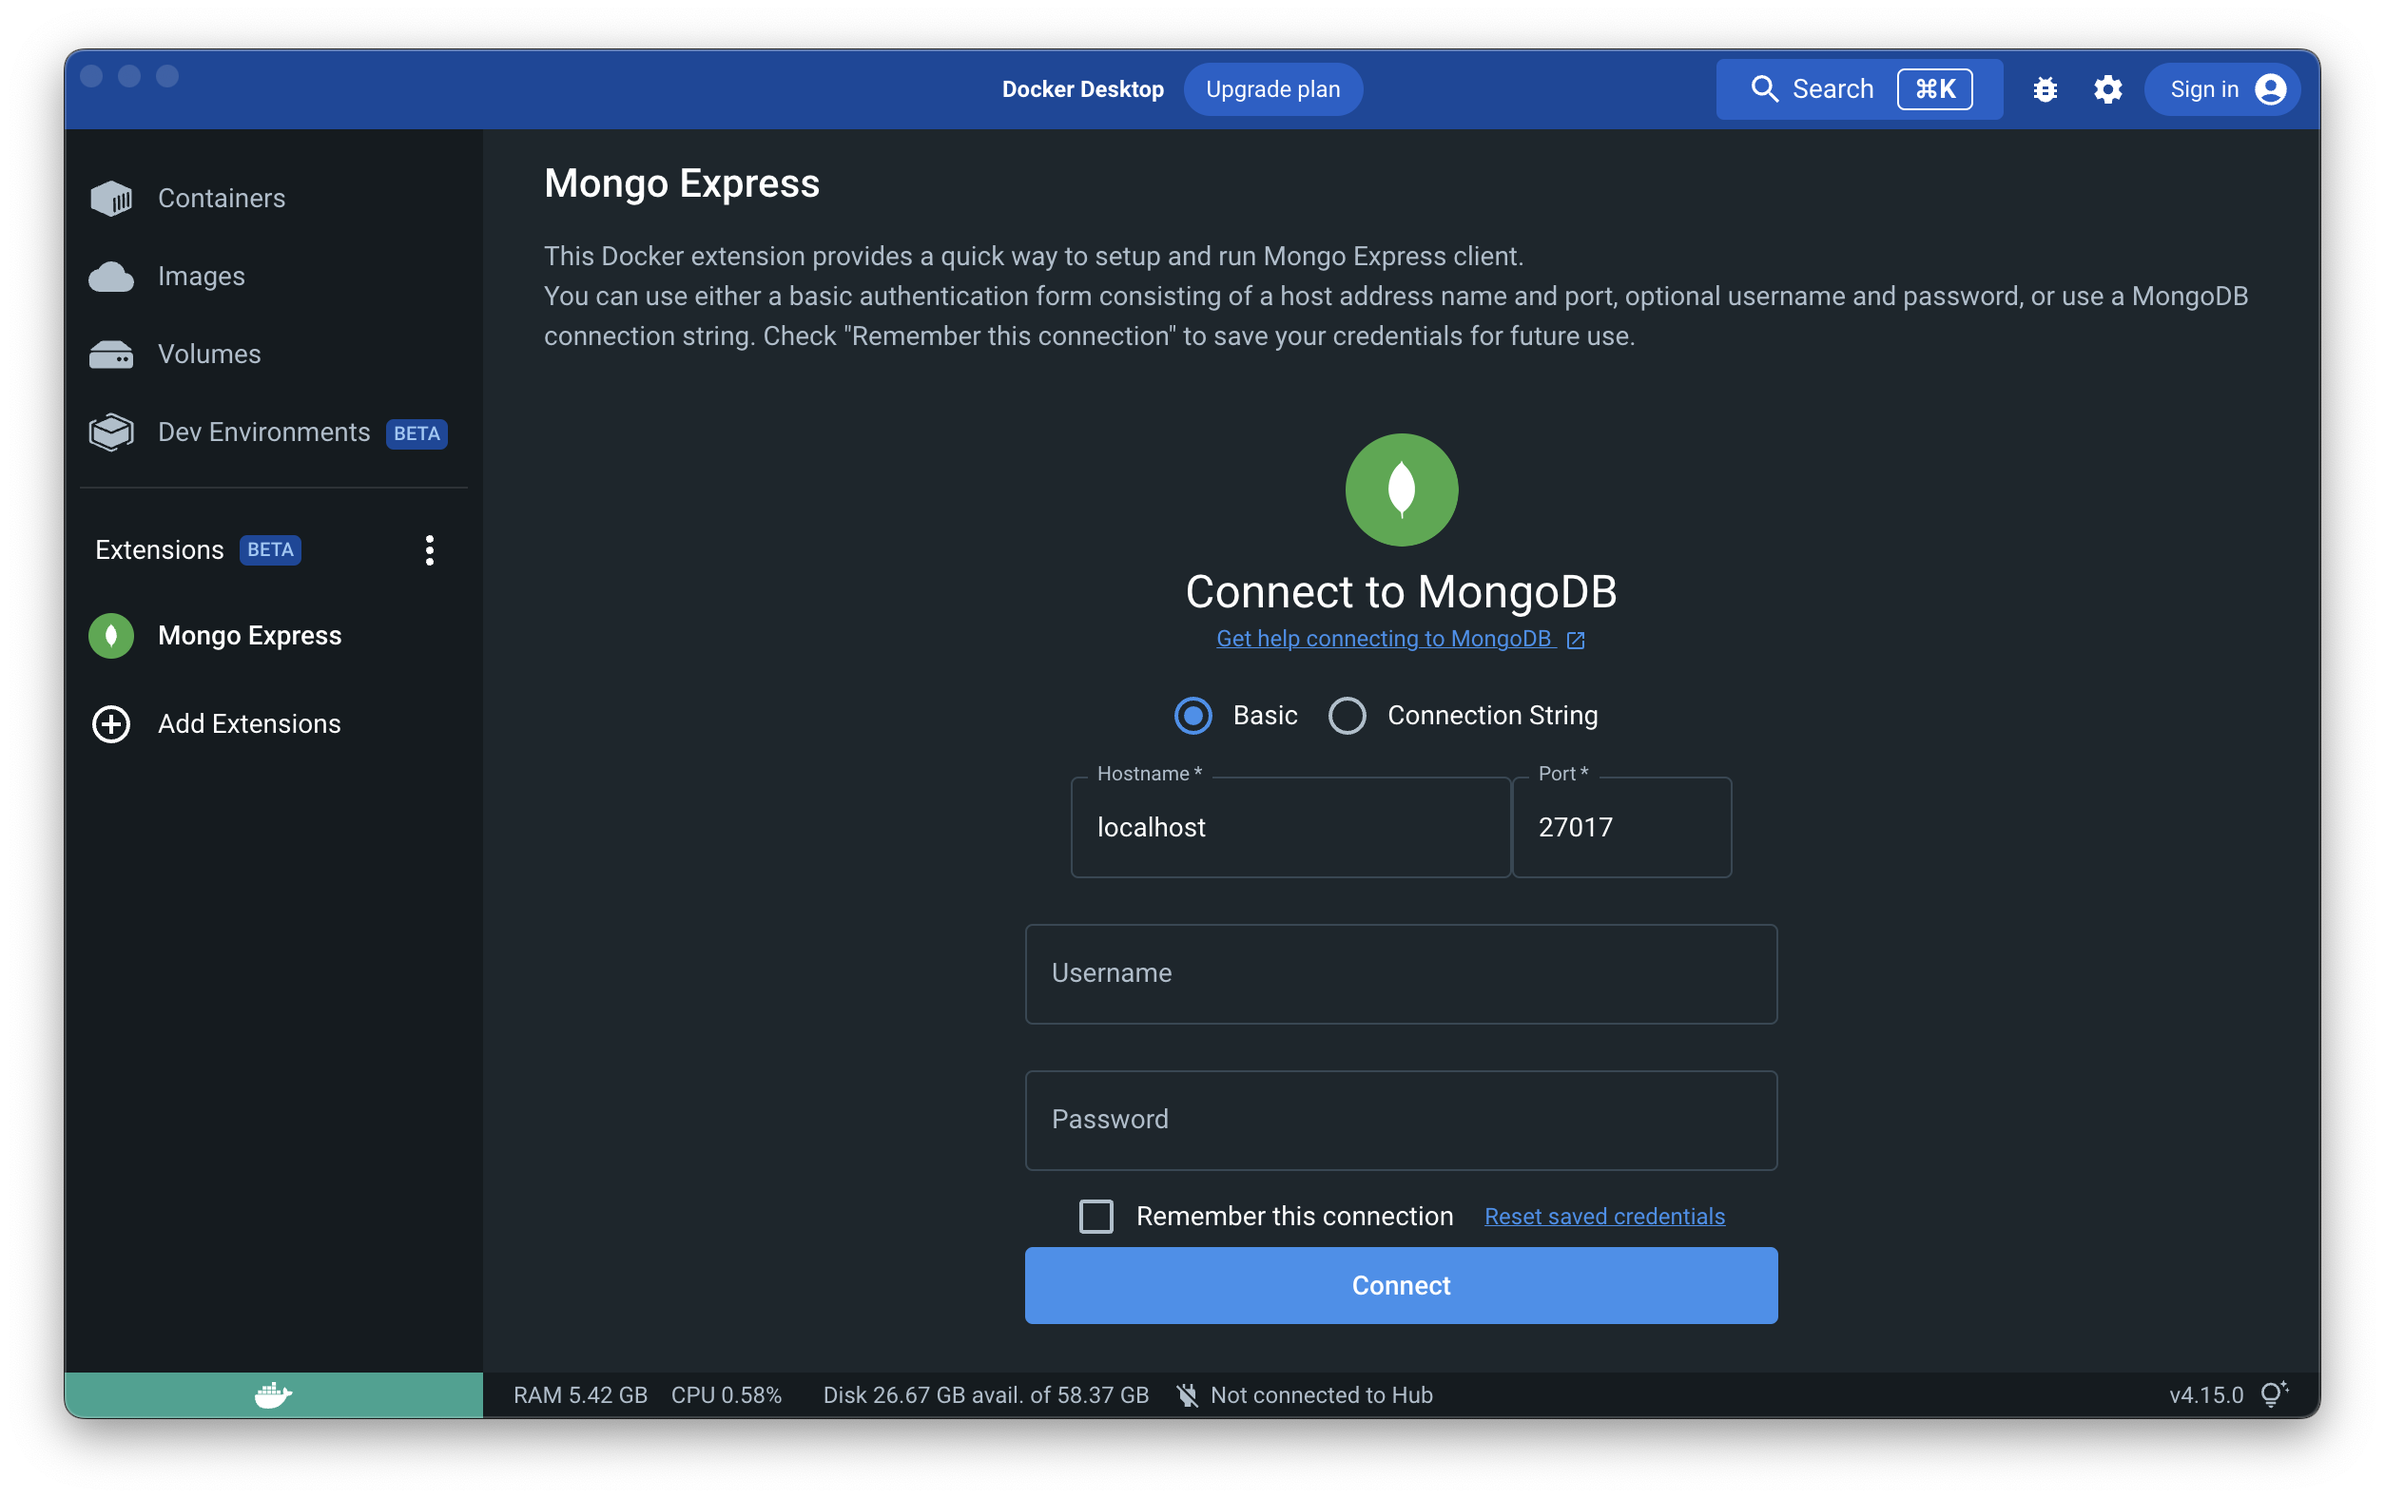
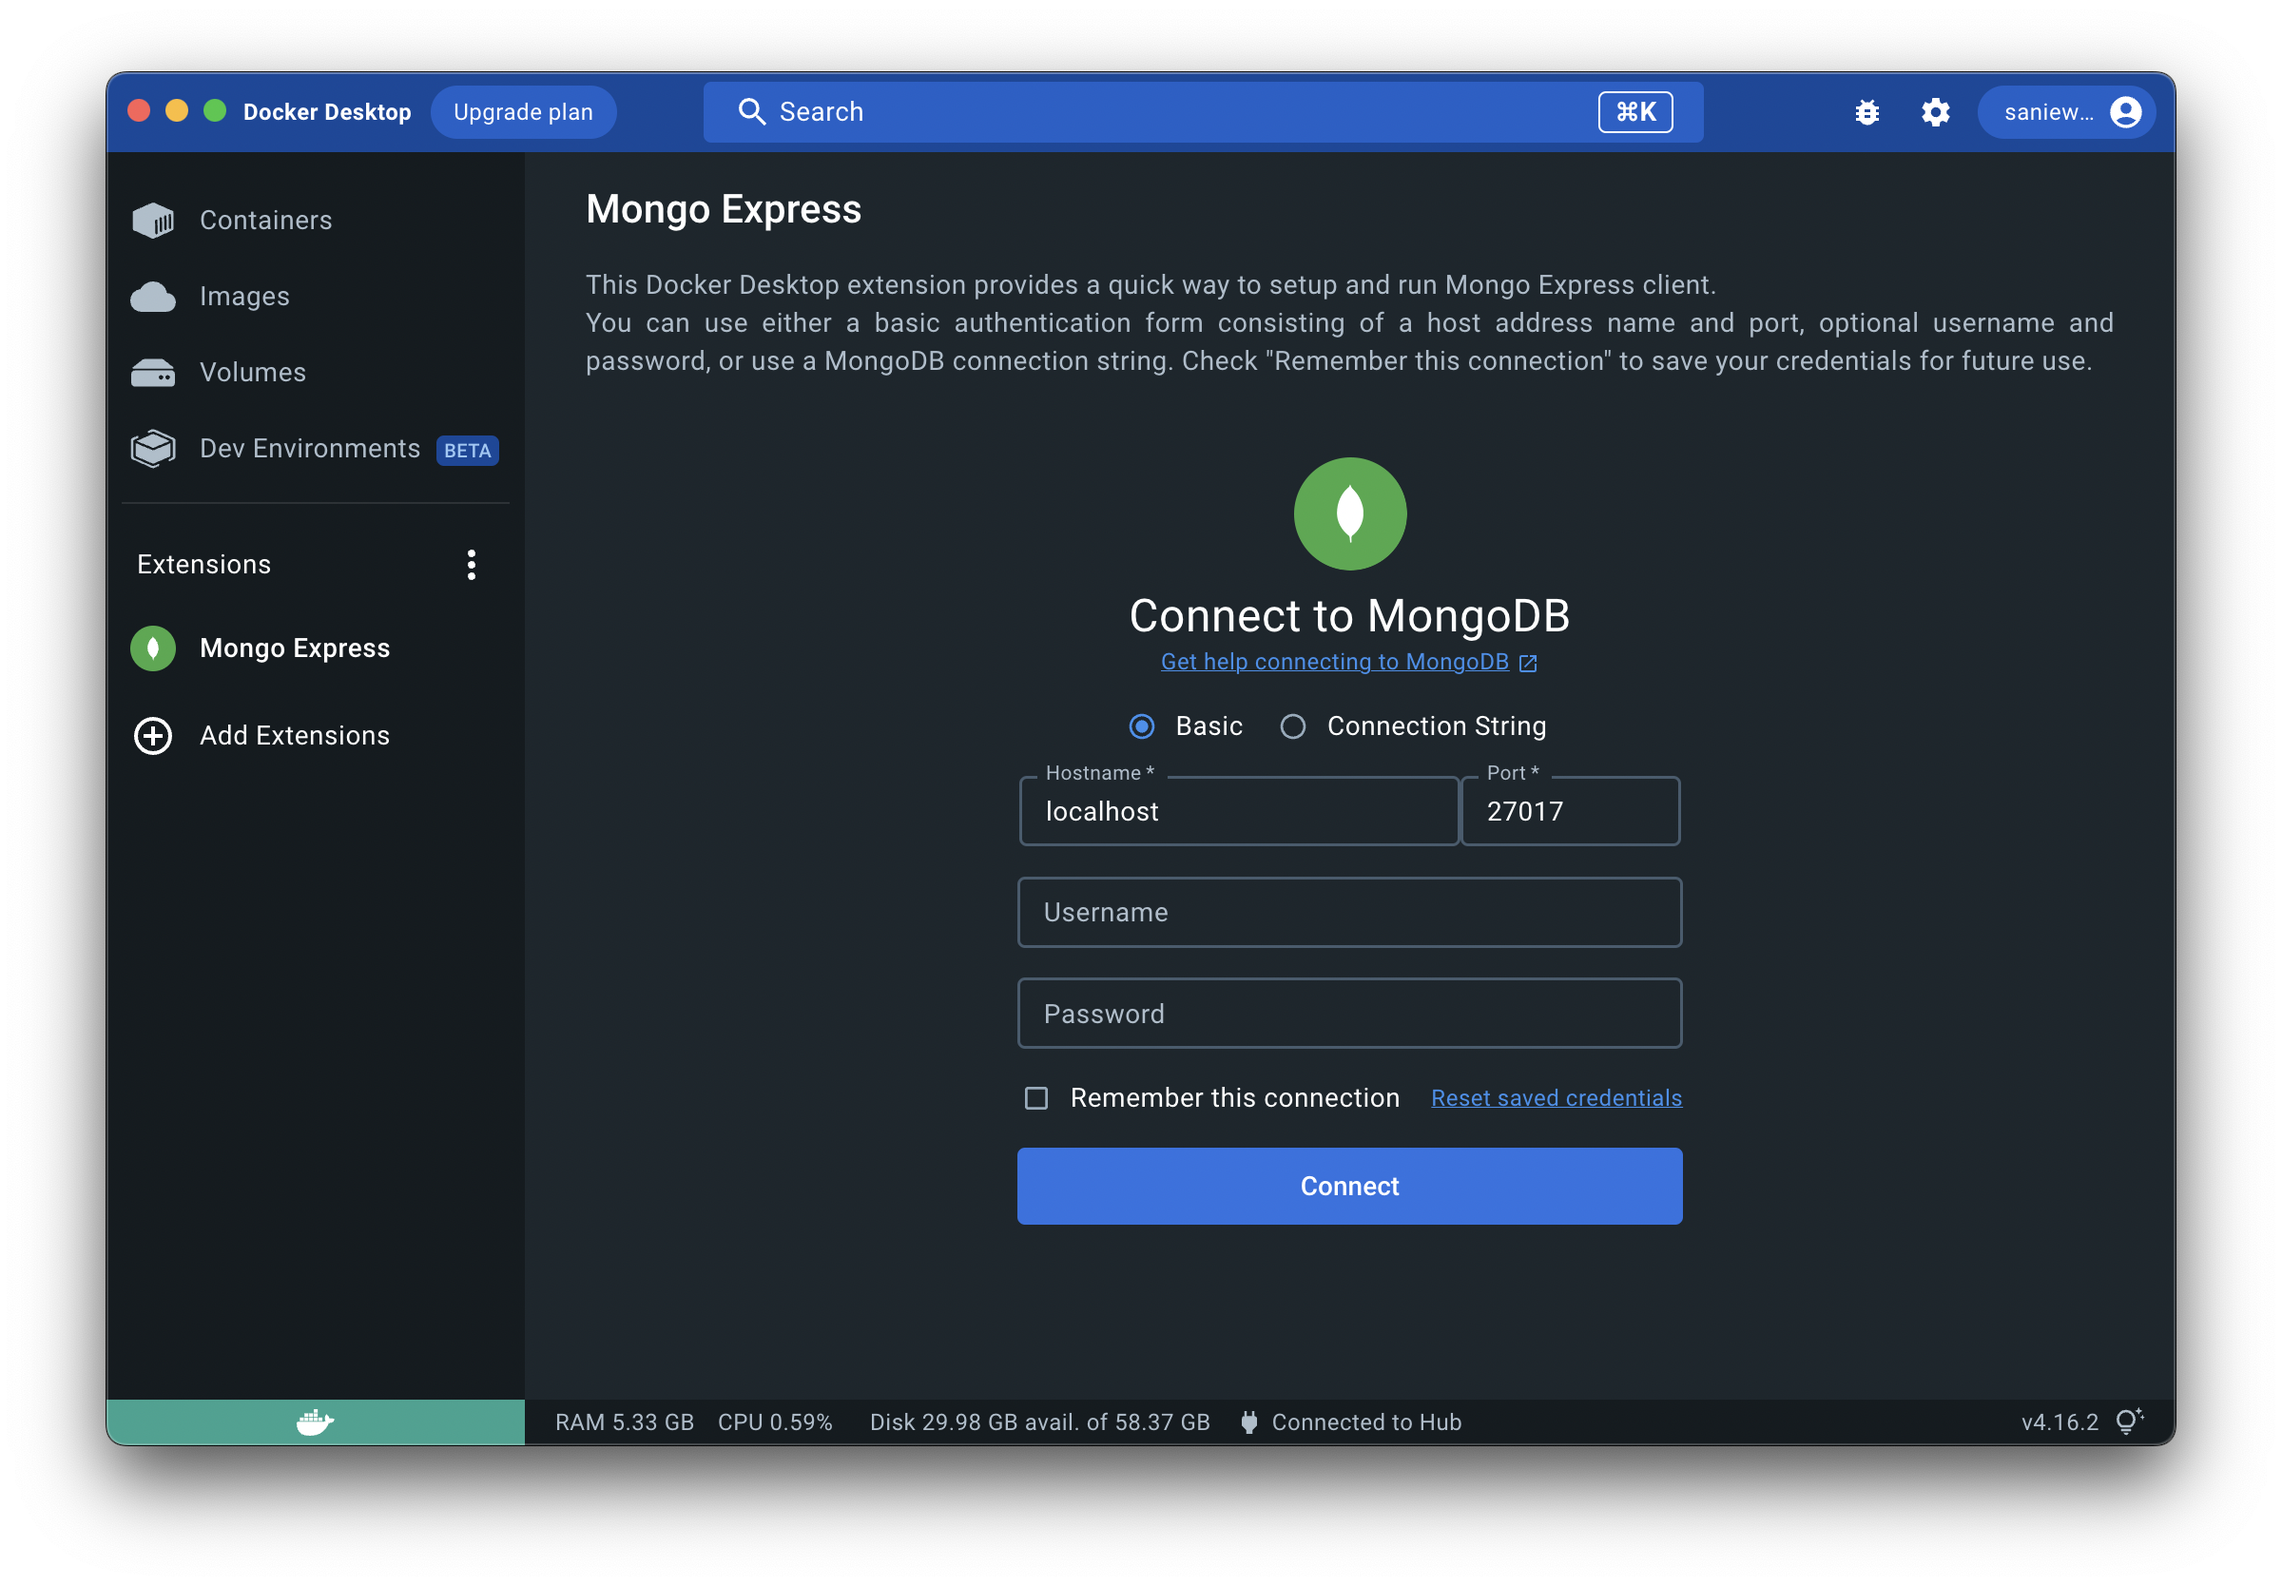
Fix UI after Docker Desktop update v4.16, fix form fields width, fix screenshots not appearing in Docker extensions marketplace page, update screenshots

Changed region(s): [[0.0, 0.0311, 1.0, 0.9638], [0.4375, 0.2798, 0.75, 0.7773]]

diff --git a/ui/src/components/ConnectionForm/ConnectionForm.tsx b/ui/src/components/ConnectionForm/ConnectionForm.tsx
@@ -112,106 +112,107 @@ export const ConnectionForm = () => {
               {"Get help connecting to MongoDB"}
               <OpenInNewIcon fontSize="inherit" />
             </Link>
-            <RadioGroup
-              sx={{ mt: 2 }}
-              row
-              value={extensionConfig.authMethod}
-              onChange={(e: any) => setExtensionConfig({ ...extensionConfig, authMethod: e.target.value })}
-            >
-              <FormControlLabel
-                disabled={isButtonLoading}
-                value={AUTH_BASIC}
-                control={<Radio />}
-                label="Basic"
-              />
-              <FormControlLabel
-                disabled={isButtonLoading}
-                value={AUTH_CONNECTION_STRING}
-                control={<Radio />}
-                label="Connection String"
-              />
-            </RadioGroup>
-            {extensionConfig.authMethod === AUTH_BASIC ? (
-              <>
-                <Stack direction="row" justifyContent="center" alignItems="center" spacing={0}>
+            <Stack direction="column" justifyContent="center" alignItems="center" spacing={2} mt={2}>
+              <RadioGroup
+                row
+                value={extensionConfig.authMethod}
+                onChange={(e: any) => setExtensionConfig({ ...extensionConfig, authMethod: e.target.value })}
+              >
+                <FormControlLabel
+                  disabled={isButtonLoading}
+                  value={AUTH_BASIC}
+                  control={<Radio />}
+                  label="Basic"
+                />
+                <FormControlLabel
+                  disabled={isButtonLoading}
+                  value={AUTH_CONNECTION_STRING}
+                  control={<Radio />}
+                  label="Connection String"
+                />
+              </RadioGroup>
+              {extensionConfig.authMethod === AUTH_BASIC ? (
+                <>
+                  <Stack direction="row" justifyContent="center" alignItems="center" spacing={0}>
+                    <TextField
+                      disabled={isButtonLoading}
+                      margin="normal"
+                      fullWidth
+                      label="Hostname"
+                      value={extensionConfig.hostname}
+                      required
+                      autoFocus
+                      onChange={(e: any) => setExtensionConfig({ ...extensionConfig, hostname: e.target.value })}
+                    />
+                    <TextField
+                      disabled={isButtonLoading}
+                      margin="normal"
+                      label="Port"
+                      type="number"
+                      value={extensionConfig.port}
+                      required
+                      onChange={(e: any) => setExtensionConfig({ ...extensionConfig, port: e.target.value })}
+                    />
+                  </Stack>
                   <TextField
                     disabled={isButtonLoading}
                     margin="normal"
                     fullWidth
-                    label="Hostname"
-                    value={extensionConfig.hostname}
-                    required
-                    autoFocus
-                    onChange={(e: any) => setExtensionConfig({ ...extensionConfig, hostname: e.target.value })}
+                    key="username"
+                    label="Username"
+                    value={extensionConfig.username}
+                    onChange={(e: any) => setExtensionConfig({ ...extensionConfig, username: e.target.value })}
                   />
                   <TextField
                     disabled={isButtonLoading}
                     margin="normal"
-                    label="Port"
-                    type="number"
-                    value={extensionConfig.port}
-                    required
-                    onChange={(e: any) => setExtensionConfig({ ...extensionConfig, port: e.target.value })}
+                    fullWidth
+                    key="password"
+                    label="Password"
+                    type="password"
+                    value={extensionConfig.password}
+                    onChange={(e: any) => setExtensionConfig({ ...extensionConfig, password: e.target.value })}
                   />
-                </Stack>
+                </>
+              ) : (
                 <TextField
                   disabled={isButtonLoading}
                   margin="normal"
                   fullWidth
-                  key="username"
-                  label="Username"
-                  value={extensionConfig.username}
-                  onChange={(e: any) => setExtensionConfig({ ...extensionConfig, username: e.target.value })}
+                  key="connectionString"
+                  label="Connection String"
+                  value={extensionConfig.connectionString}
+                  onChange={(e: any) => setExtensionConfig({ ...extensionConfig, connectionString: e.target.value })}
                 />
-                <TextField
+              )}
+              <Stack direction="row" justifyContent="center" alignItems="center" spacing={0} mt={2}>
+                <FormControlLabel
                   disabled={isButtonLoading}
-                  margin="normal"
-                  fullWidth
-                  key="password"
-                  label="Password"
-                  type="password"
-                  value={extensionConfig.password}
-                  onChange={(e: any) => setExtensionConfig({ ...extensionConfig, password: e.target.value })}
+                  label="Remember this connection"
+                  control={<Checkbox
+                    checked={extensionConfig.rememberCredentials}
+                    onChange={(e: any) => setExtensionConfig({ ...extensionConfig, rememberCredentials: e.target.checked })}
+                  />}
                 />
-              </>
-            ) : (
-              <TextField
-                disabled={isButtonLoading}
-                margin="normal"
+                <Link
+                  href="#"
+                  onClick={HandleResetCredentials}
+                  variant="body2"
+                >
+                  {"Reset saved credentials"}
+                </Link>
+              </Stack>
+              <LoadingButton
                 fullWidth
-                key="connectionString"
-                label="Connection String"
-                value={extensionConfig.connectionString}
-                onChange={(e: any) => setExtensionConfig({ ...extensionConfig, connectionString: e.target.value })}
-              />
-            )}
-            <Stack direction="row" justifyContent="center" alignItems="center" spacing={0}>
-              <FormControlLabel
-                disabled={isButtonLoading}
-                label="Remember this connection"
-                control={<Checkbox
-                  checked={extensionConfig.rememberCredentials}
-                  onChange={(e: any) => setExtensionConfig({ ...extensionConfig, rememberCredentials: e.target.checked })}
-                />}
-              />
-              <Link
-                href="#"
-                onClick={HandleResetCredentials}
-                variant="body2"
+                disabled={!credentialsNotEmpty}
+                loading={isButtonLoading}
+                type="submit"
+                variant="contained"
+                onClick={HandleConnect}
               >
-                {"Reset saved credentials"}
-              </Link>
+                Connect
+              </LoadingButton>
             </Stack>
-            <LoadingButton
-              sx={{ width: '100%' }}
-              disabled={!credentialsNotEmpty}
-              loading={isButtonLoading}
-              type="submit"
-              variant="contained"
-              onClick={HandleConnect}
-            >
-              Connect
-            </LoadingButton>
           </>
         )}
       </Box>

diff --git a/ui/src/components/ServiceUnavailable/ServiceUnavailable.tsx b/ui/src/components/ServiceUnavailable/ServiceUnavailable.tsx
@@ -1,4 +1,4 @@
-import { Avatar, Box, Button, Container, Grid, Typography } from '@mui/material';
+import { Avatar, Box, Button, Container, Stack, Typography } from '@mui/material';
 import React from "react";
 import mongoExpressLogo from "../../assets/mongo-express-logo.png";
 import OpenInNewIcon from "@mui/icons-material/OpenInNew";
@@ -25,27 +25,23 @@ export const ServiceUnavailable = () => {
           Please, make sure the credentials are correct or try again after restarting / reinstalling the extension.<br />
           If the problem persists, please create an issue on the extension's GitHub page.
         </Typography>
-        <Grid container mt={1}>
-          <Grid item xs>
-            <Button
-              startIcon={<ArrowBackIcon />}
-              onClick={() => navigate('/')}
-              variant="contained"
-            >
-              {"Return to the main page"}
-            </Button>
-          </Grid>
-          <Grid item>
-            <Button
-              endIcon={<OpenInNewIcon />}
-              onClick={() =>
-                ddClient?.host?.openExternal('https://github.com/Saniewski/mongo-express-docker-extension/issues/new')}
-              variant="outlined"
-            >
-              {"Report an issue"}
-            </Button>
-          </Grid>
-        </Grid>
+        <Stack direction="row" spacing={2} mt={2}>
+          <Button
+            startIcon={<ArrowBackIcon />}
+            onClick={() => navigate('/')}
+            variant="contained"
+          >
+            {"Return to the main page"}
+          </Button>
+          <Button
+            endIcon={<OpenInNewIcon />}
+            onClick={() =>
+              ddClient?.host?.openExternal('https://github.com/Saniewski/mongo-express-docker-extension/issues/new')}
+            variant="outlined"
+          >
+            {"Report an issue"}
+          </Button>
+        </Stack>
       </Box>
     </Container>
   );
